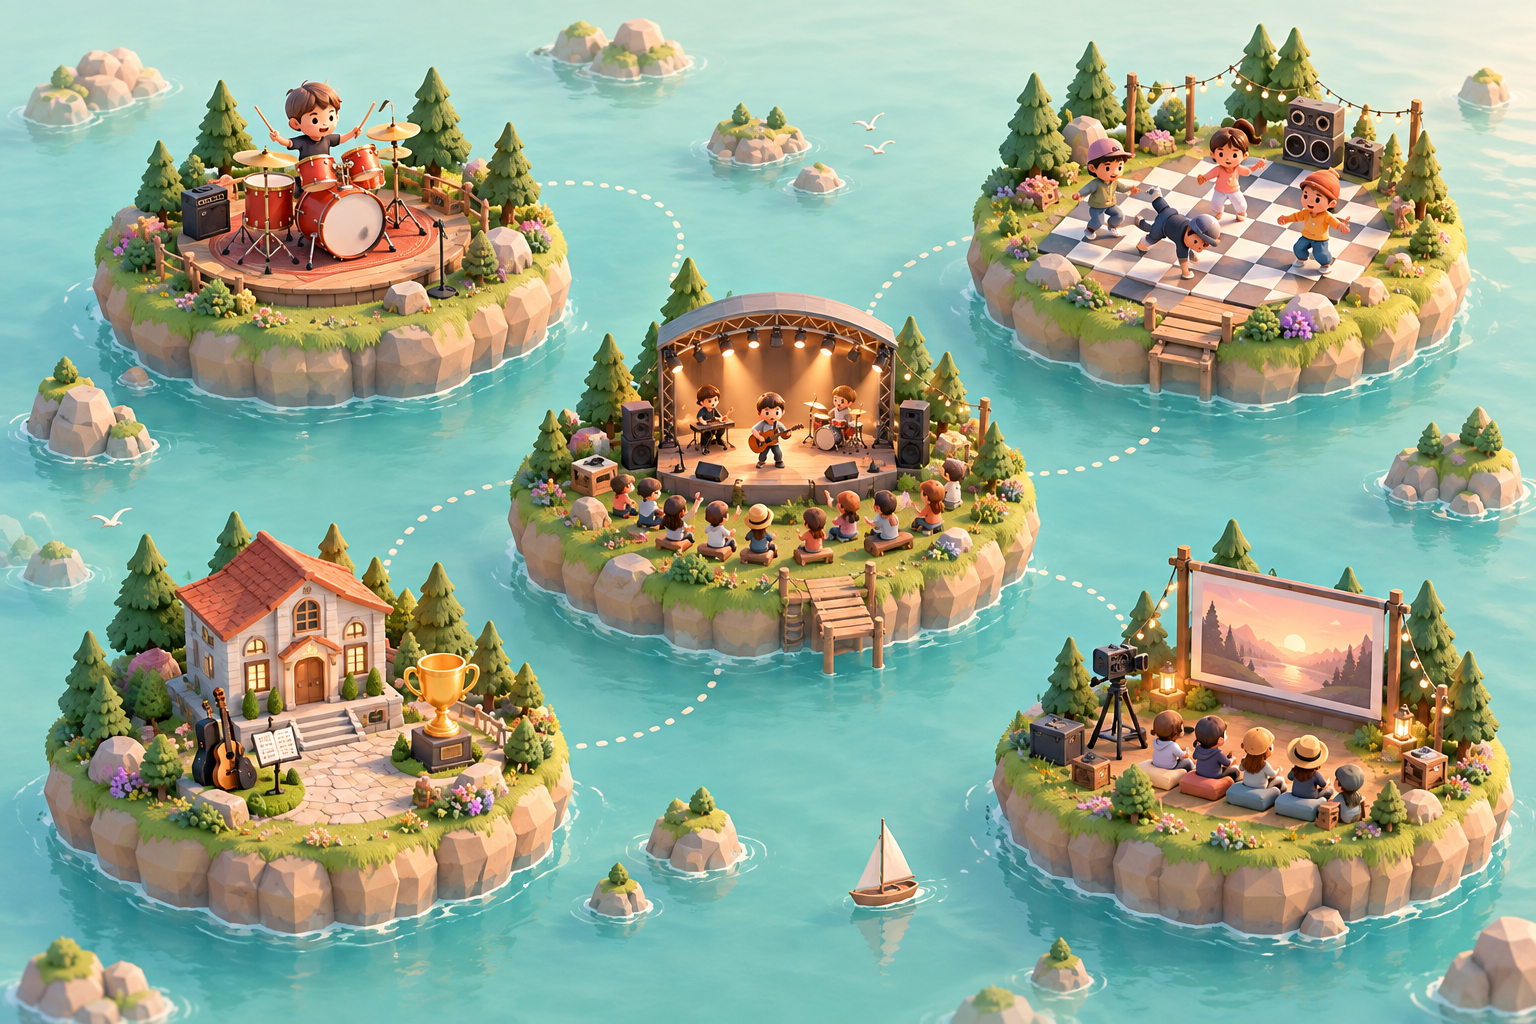
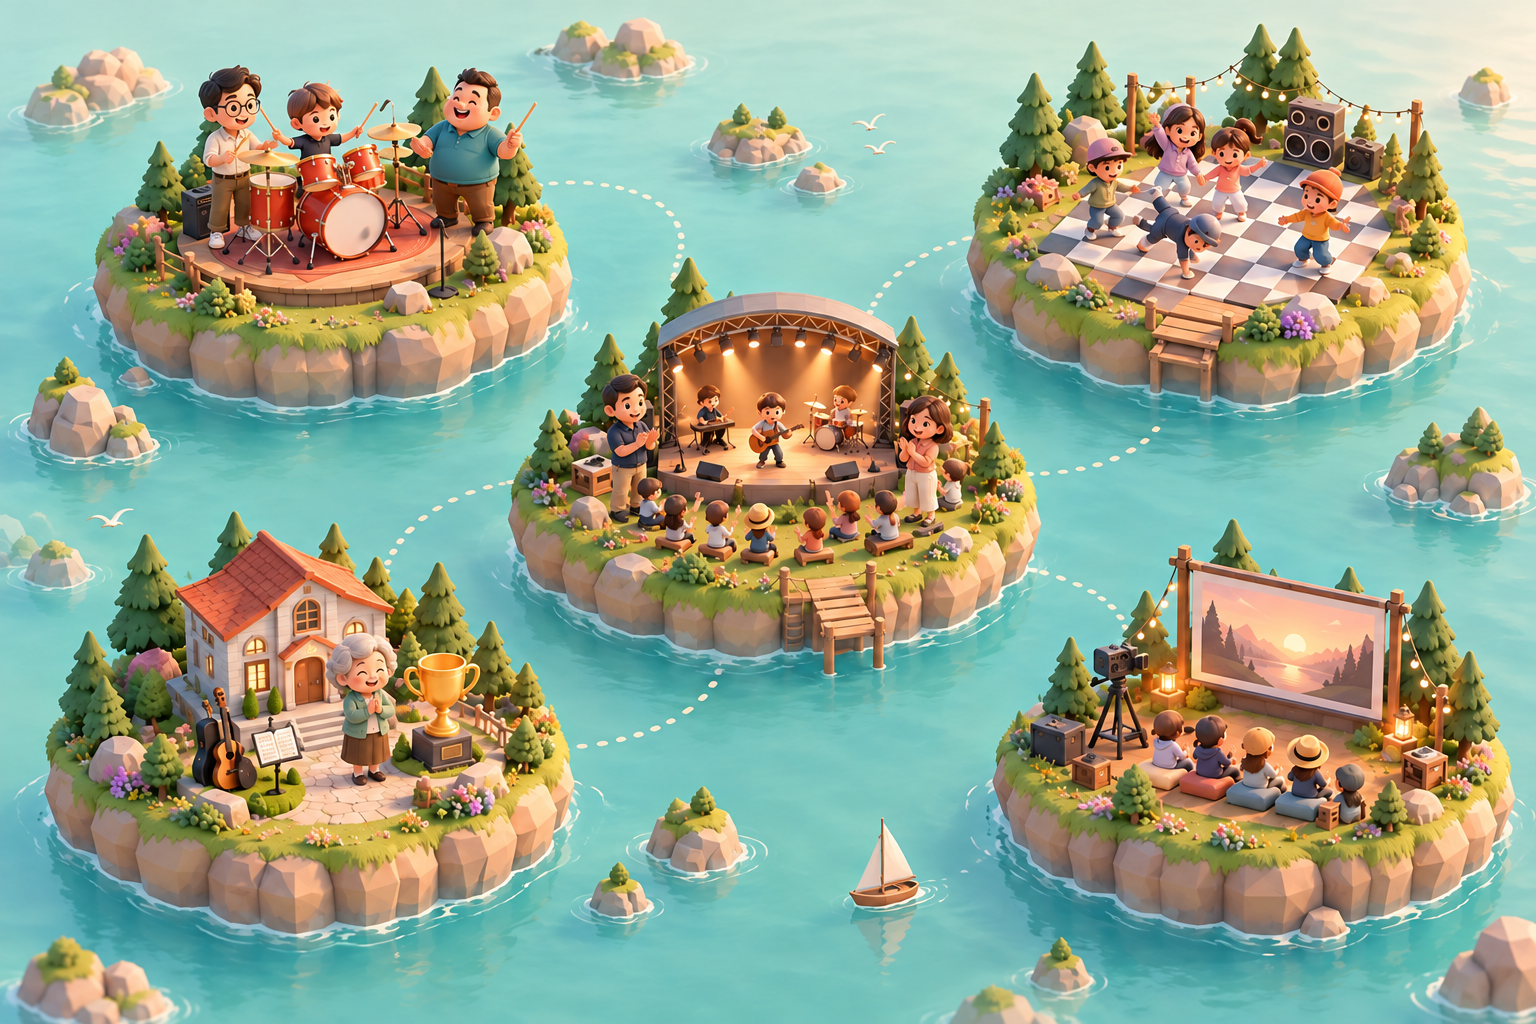
Add Eric Fun teachers grandma and Amber as island residents

diff --git a/style.css b/style.css
@@ -4,3 +4,7 @@
 @media(max-width:800px){header,main,footer{width:calc(100% - 40px)}.header{height:82px}.header nav{gap:15px}.header nav>a:first-child{display:none}.intro{padding-top:45px}.intro>p{position:static;font-size:14px;margin-bottom:24px}.intro-note{display:block;margin:20px 0 0}.map-heading p{display:none}.island-nav{grid-template-columns:repeat(3,1fr)}.island-nav button{border-bottom:1px solid var(--line)}.island-pin{font-size:11px;padding:5px 10px;gap:5px;min-height:36px}.island-pin span{font-size:8px}.journal{padding:55px 0}.journal-bottom{display:block}footer{gap:20px;flex-wrap:wrap}.photo-grid{columns:2}.panel-head{padding:16px 20px}.panel-head h2{font-size:20px}#panel-body,#review-body{padding:20px}.panel-tabs{padding:12px 20px}.performance-grid,.about-cards{grid-template-columns:1fr}}
 @media(max-width:480px){header,main,footer{width:calc(100% - 28px)}.brand b{font-size:10px}.brand{font-size:8px;gap:8px}.brand-mark{width:35px;height:35px}.header nav{font-size:11px;gap:12px}.contact-link{padding:6px 10px}.intro h1{font-size:40px}.map-heading h2{font-size:20px}.map{border-radius:18px}.map>img{min-height:330px;object-fit:cover}.map-coordinate{font-size:6px;bottom:8px;left:12px}.island-pin{padding:4px 8px;font-size:10px;gap:4px}.island-nav{grid-template-columns:repeat(2,1fr);border-radius:14px}.island-nav button{padding:12px}.island-nav button:last-child{grid-column:1/-1}.race{grid-template-columns:1fr;gap:6px}.medal{grid-column:1}.score-meta{grid-template-columns:1fr}.video-library{grid-template-columns:1fr}.panel-head .eyebrow{font-size:9px}.cert-levels{gap:8px}.cert-levels li{padding:8px}.journal p{font-size:13px}}
 @media(prefers-reduced-motion:reduce){html{scroll-behavior:auto}*{transition:none!important}}
+.residents{padding:55px 0 15px;border-bottom:1px solid var(--line)}.residents h2{font-size:28px;margin:10px 0}.residents>p{color:var(--muted);font-size:13px}.resident-list{display:grid;grid-template-columns:repeat(6,1fr);gap:12px;margin:25px 0 40px}.resident-list button{background:#edf0e3;border:1px solid #dae0cf;border-radius:60px 60px 18px 18px;padding:25px 10px 16px;text-align:center}.resident-list button:nth-child(2n){background:#f4e7dd;border-color:#ead8ca}.resident-list b,.resident-list span,.resident-list small{display:block}.resident-list b{font-size:17px}.resident-list span{font-size:11px;color:var(--muted)}.resident-list small{font-size:10px;color:var(--accent);margin-top:12px}.resident-list button:hover{transform:translateY(-3px)}.island-pin:before{width:150px;height:100px}.map{max-height:none}
+@media(max-width:800px){.resident-list{grid-template-columns:repeat(3,1fr)}}
+@media(max-width:480px){.resident-list{grid-template-columns:repeat(2,1fr)}.residents h2{font-size:23px}.map>img{min-height:0;object-fit:contain}.island-pin:before{width:80px;height:45px}}
+.resident-list button:before{content:'';display:block;width:80px;height:85px;border-radius:40px;margin:0 auto 12px;background-image:url('assets/islands.png');background-size:720px 480px;background-repeat:no-repeat;border:3px solid #fff9}.resident-list [data-resident="Eric"]:before{background-position:-247px -157px}.resident-list [data-resident="Fun"]:before{background-position:-393px -163px}.resident-list [data-resident="鳥鳥"]:before{background-position:-68px -14px}.resident-list [data-resident="阿寶"]:before{background-position:-184px -16px}.resident-list [data-resident="阿嬤"]:before{background-position:-130px -270px}.resident-list [data-resident="Amber"]:before{background-position:-516px -19px}

diff --git a/index.html b/index.html
@@ -3,6 +3,7 @@
 <body><header class="header"><a class="brand" href="#home"><span class="brand-mark">b.</span><span>BENSON'S <b>MUSIC ISLANDS</b></span></a><nav aria-label="主導覽"><a href="#explore">探索群島</a><a href="#story">關於 Benson</a><a href="mailto:smartsipo@gmail.com" class="contact-link">合作邀約 ↗</a></nav></header>
 <main><section class="intro" id="home"><div class="eyebrow">DRUMMER · DANCER · DREAMER</div><h1>小小島嶼，<br>大大的<span>節奏宇宙。</span></h1><p>我是施維駿 Benson。<br>跟著鼓點出發，一起跳進我的音樂群島。</p><a class="primary" href="#explore">開始島嶼探險 <span>↗</span></a><span class="intro-note">TAIWAN &nbsp; / &nbsp; 每一座島，都是成長的一部分</span></section>
 <section class="explore" id="explore" aria-labelledby="map-title"><div class="map-heading"><div><div class="eyebrow">THE ARCHIPELAGO</div><h2 id="map-title">今天，想去哪一座島？</h2></div><p>點選島嶼，收藏一段節奏。</p></div><div class="map"><img src="assets/islands.png" width="1536" height="1024" alt="五座可愛 3D 微縮音樂島嶼：爵士鼓、街舞、表演舞台、檢定學院與戶外電影院"><div class="map-grid" id="map-grid"></div><span class="map-coordinate">BENSON'S WORLD &nbsp; 24° N · 120° E</span></div><div class="island-nav" id="island-nav" aria-label="五島快捷導覽"></div></section>
+<section class="residents" aria-labelledby="residents-title"><div class="eyebrow">MEET THE ISLANDERS</div><h2 id="residents-title">小小群島，有你們一起。</h2><p>陪伴 Benson 的家人與老師，也住進了這片節奏宇宙。</p><div class="resident-list"><button data-resident="Eric" data-home="performance"><b>Eric</b><span>爸爸</span><small>活動表演島 ↗</small></button><button data-resident="Fun" data-home="performance"><b>Fun</b><span>媽媽</span><small>活動表演島 ↗</small></button><button data-resident="鳥鳥" data-home="drum"><b>鳥鳥老師</b><span>戴眼鏡的打鼓老師</span><small>爵士鼓島 ↗</small></button><button data-resident="阿寶" data-home="drum"><b>阿寶老師</b><span>大肚子的打鼓老師</span><small>爵士鼓島 ↗</small></button><button data-resident="阿嬤" data-home="certification"><b>阿嬤</b><span>短捲髮的阿嬤</span><small>檢定島 ↗</small></button><button data-resident="Amber" data-home="dance"><b>Amber</b><span>姊姊</span><small>街舞島 ↗</small></button></div></section>
 <section class="journal"><div class="eyebrow">LITTLE STEPS, BIG DREAMS</div><h2>把每一次練習，<br>變成下一次發光。</h2><div class="journal-bottom"><p>從鼓棒落下的第一拍，到站上舞台的每一步。<br>這裡記錄著音樂、舞蹈，還有一路同行的故事。</p><a href="#story" class="text-link">讀讀我們的故事 ↗</a></div></section></main>
 <footer><span>施維駿 BENSON SHIH<br><small>Drummer · Dancer · Dreamer</small></span><a href="https://benson-shih-bensondrum.vercel.app/" target="_blank" rel="noopener">造訪 Benson 原官網 ↗</a><small>© 2026 BENSON'S MUSIC ISLANDS</small></footer>
 <dialog id="island-dialog" aria-labelledby="panel-title"><div class="panel-head"><div><span class="eyebrow" id="panel-kicker"></span><h2 id="panel-title"></h2></div><button id="close-panel" aria-label="關閉內容面板">關閉 ×</button></div><nav class="panel-tabs" id="panel-tabs" aria-label="島嶼內容分類"></nav><div id="panel-body"></div></dialog>

diff --git a/app.js b/app.js
@@ -11,3 +11,4 @@ function showCert(id){const level=id.endsWith('1')?1:2;document.querySelector('#
 function videoLibrary(){const container=document.createElement('div');container.innerHTML=data.sections.results+data.sections.dance+data.sections.performances;const links=[...container.querySelectorAll('a[href*="youtu"]')];const seen=new Set();const list=document.createElement('div');list.className='video-library';for(const a of links){const url=a.href.split('?')[0];if(seen.has(url))continue;seen.add(url);const article=a.closest('article'),link=document.createElement('a');link.href=a.href;link.target='_blank';link.rel='noopener';link.append(add('small',article?.querySelector('.date')?.textContent||'舞台紀錄'),add('b',article?.querySelector('h3')?.textContent||'表演影片'),add('div','觀看影片 ↗'));list.append(link)}return '<h3>每一次登台，都值得留下。</h3>'+list.outerHTML;}
 document.querySelector('#close-panel').onclick=()=>panel.close();document.querySelector('#close-review').onclick=()=>review.close();panel.addEventListener('close',()=>opener?.focus({preventScroll:true}));for(const d of [panel,review])d.addEventListener('click',e=>{if(e.target!==d)return;const r=d.getBoundingClientRect();if(e.clientX<r.left||e.clientX>r.right||e.clientY<r.top||e.clientY>r.bottom)d.close()});
 function route(){if(location.hash==='#story')openIsland(islands[4],null,'story')};window.addEventListener('hashchange',route);document.querySelectorAll('a[href="#story"]').forEach(a=>a.addEventListener('click',e=>{e.preventDefault();openIsland(islands[4],a,'story')}));route();
+document.querySelectorAll('[data-resident]').forEach(button=>button.onclick=()=>openIsland(islands.find(i=>i.id===button.dataset.home),button));
